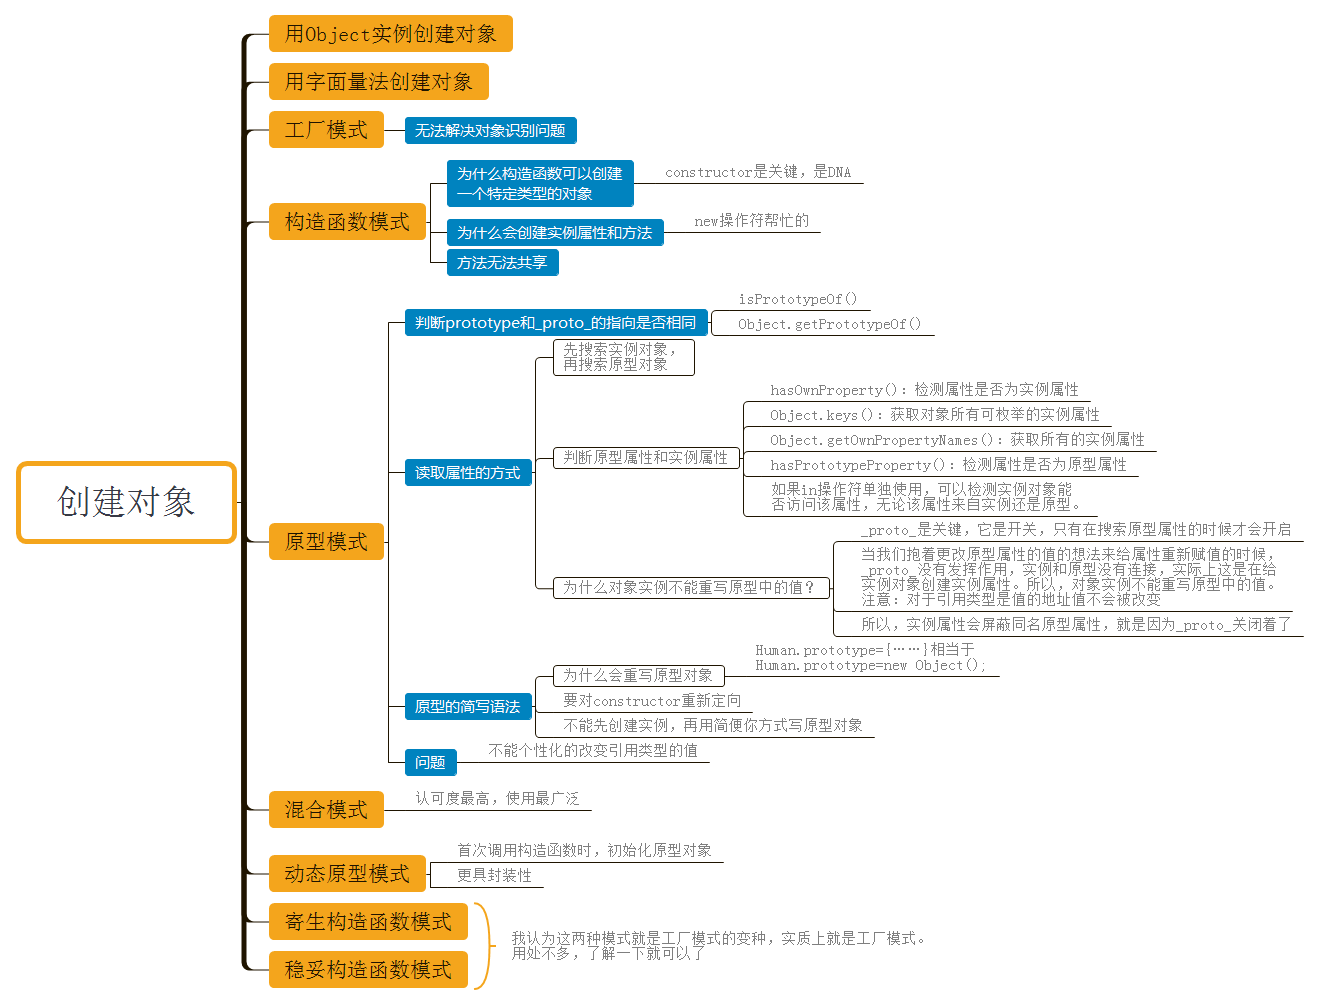
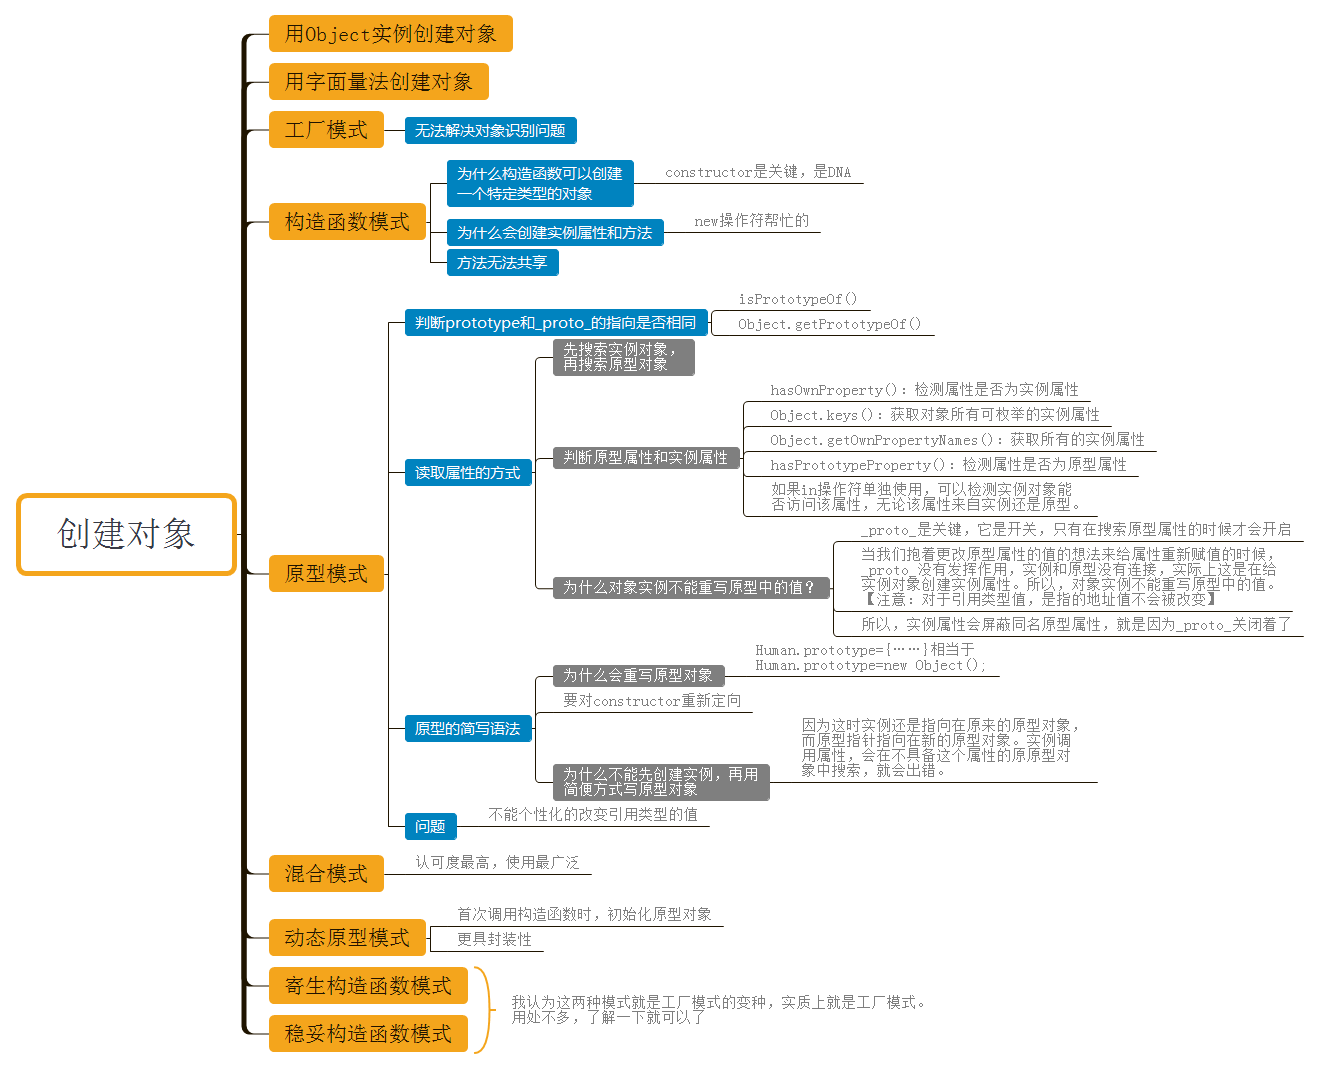
Site updated: 2018-01-04 12:36:20

Changed region(s): [[0.1864, 0.0, 0.9939, 0.9861], [0.0, 0.4622, 0.2795, 0.5547]]

diff --git a/2018/01/02/2018-01-02-js-base-09-02-oo/index.html b/2018/01/02/2018-01-02-js-base-09-02-oo/index.html
@@ -243,7 +243,7 @@
 
     
         <meta property="article:published_time" content="Tue Jan 02 2018 00:00:00 GMT+0800" />
-        <meta property="article:modified_time" content="Wed Jan 03 2018 23:29:21 GMT+0800" />
+        <meta property="article:modified_time" content="Thu Jan 04 2018 00:16:05 GMT+0800" />
     
 
     <!-- The Twitter Card protocol -->
@@ -270,7 +270,7 @@
     "mainEntityOfPage": "http://yoursite.com/2018/01/02/2018-01-02-js-base-09-02-oo/index.html",
     "headline": "JS基础总结09:面向对象程序设计——创建对象的演变",
     "datePublished": "Tue Jan 02 2018 00:00:00 GMT+0800",
-    "dateModified": "Wed Jan 03 2018 23:29:21 GMT+0800",
+    "dateModified": "Thu Jan 04 2018 00:16:05 GMT+0800",
     "author": {
         "@type": "Person",
         "name": "Anilway",
@@ -952,14 +952,14 @@ Human.prototype={
   value:Human
 });
 </code></pre>
-<div style="padding:5px;border:gray 2px solid;border-radius:5px; background:gray;color:white">用偷懒的方式写原型对象，为什么不能先创建实例，在写原型对象？</div>
+<div style="padding:5px;border:gray 2px solid;border-radius:5px; background:gray;color:white">用偷懒的方式写原型对象，为什么不能先创建实例，再写原型对象？</div>
 
 <blockquote>
 <p>我们来看这个流程：</p>
 <ul>
-<li>首先，肯定有构造函数：<code>function Fun(){};</code>这时，其prototype指向默认的原型对象。</li>
+<li>首先，我们创建构造函数：<code>function Fun(){};</code>这时，其prototype指向默认的原型对象。</li>
 <li>然后先创建其实例：<code>var fun=new Fun();</code>这个时候fun的隐式原型<code>_prop_</code>是指向默认原型对象的。</li>
-<li>然后再重写原型对象：<code>Fun.prototype={……};</code>这个时候prototype指向新的原型对象了。</li>
+<li>然后再重写原型对象：<code>Fun.prototype={……};</code>这个时候prototype指向新的原型对象了。而实例还指向在默认原型对象。</li>
 </ul>
 <p>问题就在于，我们把属性和方法添加在新原型对象中，而调用实例的时候，还是从原来的原型对象中搜索属性，肯定找不到我们设定的属性，所以会出错。</p>
 <p>下面来看看具体的例子：</p>
@@ -1050,12 +1050,12 @@ friend.sayName();
 <p>也就是说，在我们写完构造函数，还没有创建实例时，构造函数中的原型对象里面是空的，没有我们自己定义的方法。（不过默认的一些还是有的），只有在第一次调用构造函数之后，原型里面才装满了我们自定义的方法。</p>
 <p>而不是在实例调用时执行那段代码！想清楚！</p>
 </blockquote>
-<p>在之后再次创建实例时，构造函数里面也会判断，<code>this.sayName</code>是不是函数类型，一看，诶！是函数类型的，说明向原型添加过该方法了，就不会再添加，直接在原型里面调用该方法。</p>
+<p>再之后再次创建实例时，构造函数里面也会判断，<code>this.sayName</code>是不是函数类型，一看，诶！是函数类型的，说明向原型添加过该方法了，就不会再添加，直接在原型里面调用该方法。</p>
 <p>这就是动态原型模式。通过初始化原型的方式，将原型也封装在构造函数里面。</p>
 <blockquote>
 <p>换句话说，可以通过检查某个应该存在的方法是否有效，来决定是否需要初始化原型。 </p>
 </blockquote>
-<p>如果我们有多个方法需要初始化，也只要使用一个属性或方法进行判断就可以了，不必谢一大堆<code>if</code>判断，比如：</p>
+<p>如果我们有多个方法需要初始化，也只要使用一个属性或方法进行判断就可以了，不必写一大堆<code>if</code>判断，比如：</p>
 <pre><code class="javascript">if (typeof this.sayName != &quot;function&quot;){ 
   Person.prototype.sayName = function(){alert(this.name);};
   Person.prototype.sayAge = function(){alert(this.age);};
@@ -1068,7 +1068,7 @@ if (typeof this.sayName != &quot;function&quot;){
     constructor:Person,//如果不想枚举，也可以用Object.defineProperty()设定
     sayName: function(){alert(this.name);},
     sayAge: function(){alert(this.age);},
-    sayJob: function(){alert(this.job);},
+    sayJob: function(){alert(this.job);}
   }
 }
 </code></pre>
@@ -1207,9 +1207,9 @@ friend.sayName(); //&quot;Nicholas&quot;
 </code></pre>
 <p>我不想说什么，就引用高程中的原话吧：</p>
 <blockquote>
-<p>这样，变量 friend 中保存的是一个稳妥对象，而除了调用 sayName()方法外，没有别的方式可以访问其数据成员。即使有其他代码会给这个对象添加方法或数据成员，但也不可能有别的办法访问传入到构造函数中的原始数据。稳妥构造函数模式提供的这种安全性，使得它非常适合在某些安全执行环境——例如,ADsafe（www.adsafe.org）和 Caja（<a href="http://code.google.com/p/google-caja/）提供的环境——下使用。" target="_blank" rel="external">http://code.google.com/p/google-caja/）提供的环境——下使用。</a> </p>
+<p>这样，变量 friend 中保存的是一个稳妥对象，而除了调用 sayName()方法外，没有别的方式可以访问其数据成员。即使有其他代码会给这个对象添加方法或数据成员，但也不可能有别的办法访问传入到构造函数中的原始数据。稳妥构造函数模式提供的这种安全性，使得它非常适合在某些安全执行环境——例如,ADsafe（<a href="www.adsafe.org">www.adsafe.org</a>）和 Caja（<a href="http://code.google.com/p/google-caja/" target="_blank" rel="external">http://code.google.com/p/google-caja/</a>）提供的环境——下使用。 </p>
 </blockquote>
-<p>其实我想吐槽的，造这么高深的名词：稳妥构造函数模式。其实就是把对象封装在函数里面使用。而且不适用<code>new</code>操作符，不就是当做一般的函数来使用的吗？只不过没有给对象设定属性，只是设定了方法，把参数传进去罢了。</p>
+<p>其实我想吐槽的，造这么高深的名词：稳妥构造函数模式。其实就是把对象封装在函数里面使用。而且不使用<code>new</code>操作符，不就是当做一般的函数来使用的吗？只不过没有给对象设定属性，只是设定了方法，把参数传进去罢了。</p>
 <p>对于上面的<code>friend</code>对象，它自己其实只有一个实例方法，无论是实例对象本身还是它的构造函数的原型都没有我们人为定义的其他属性或方法。我们当然是没有其他的办法去访问其name值啊，除了使用<code>sayName()</code>方法之外。</p>
 <p>其实吧，就当做一般的函数去理解还直接一些，不必搞的这么复杂。</p>
 <p>以上，就是我目前对创建对象的认知！</p>

diff --git a/2017/09/20/2017-09-20-hello-world/index.html b/2017/09/20/2017-09-20-hello-world/index.html
@@ -304,7 +304,7 @@
     <!-- Custom Head -->
     
 
-<link rel="stylesheet" type="text/css" href="/assets/css/DPlayer.min.css"><script src="/assets/js/DPlayer.min.js"></script></head>
+<script src="/assets/js/DPlayer.min.js"></script><link rel="stylesheet" type="text/css" href="/assets/css/DPlayer.min.css"></head>
 
 
     
